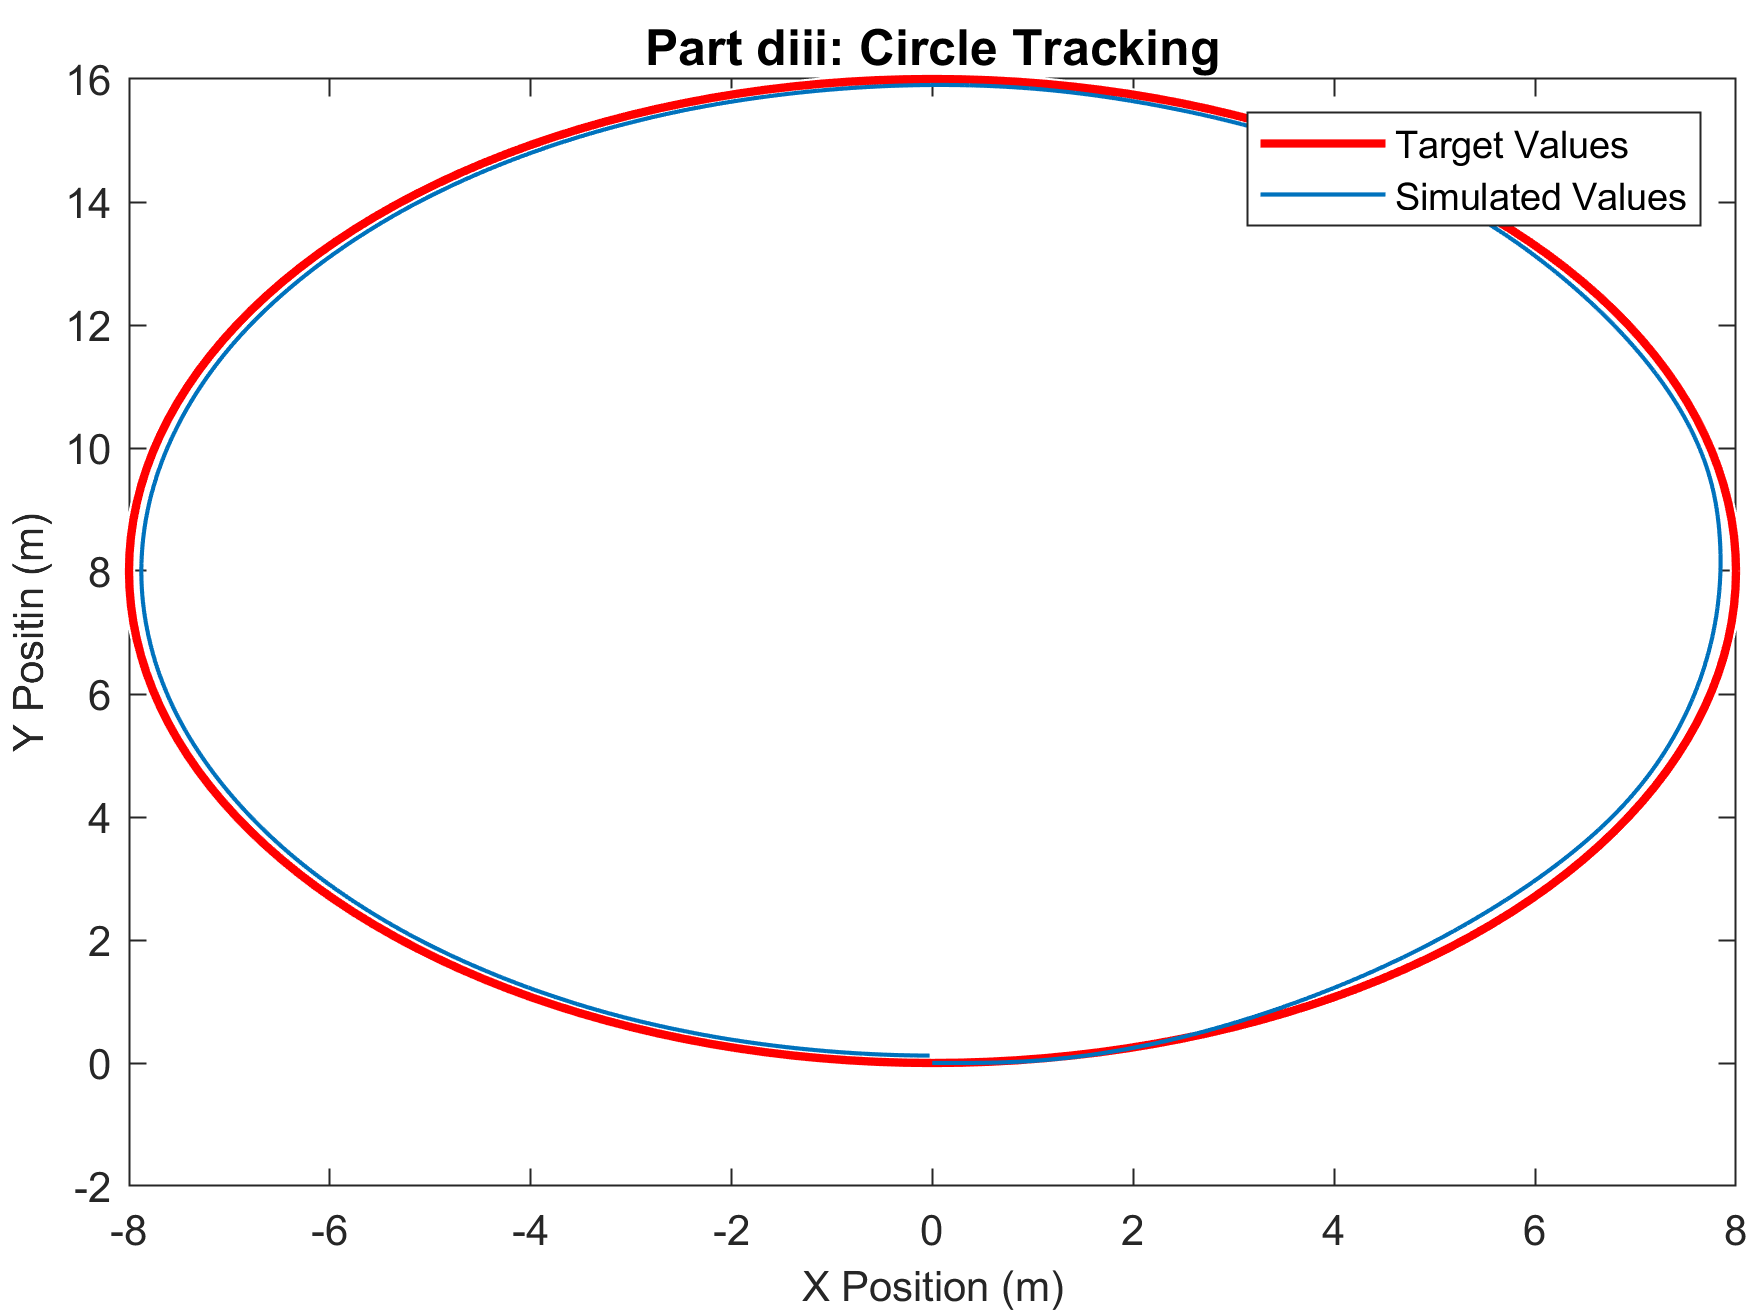
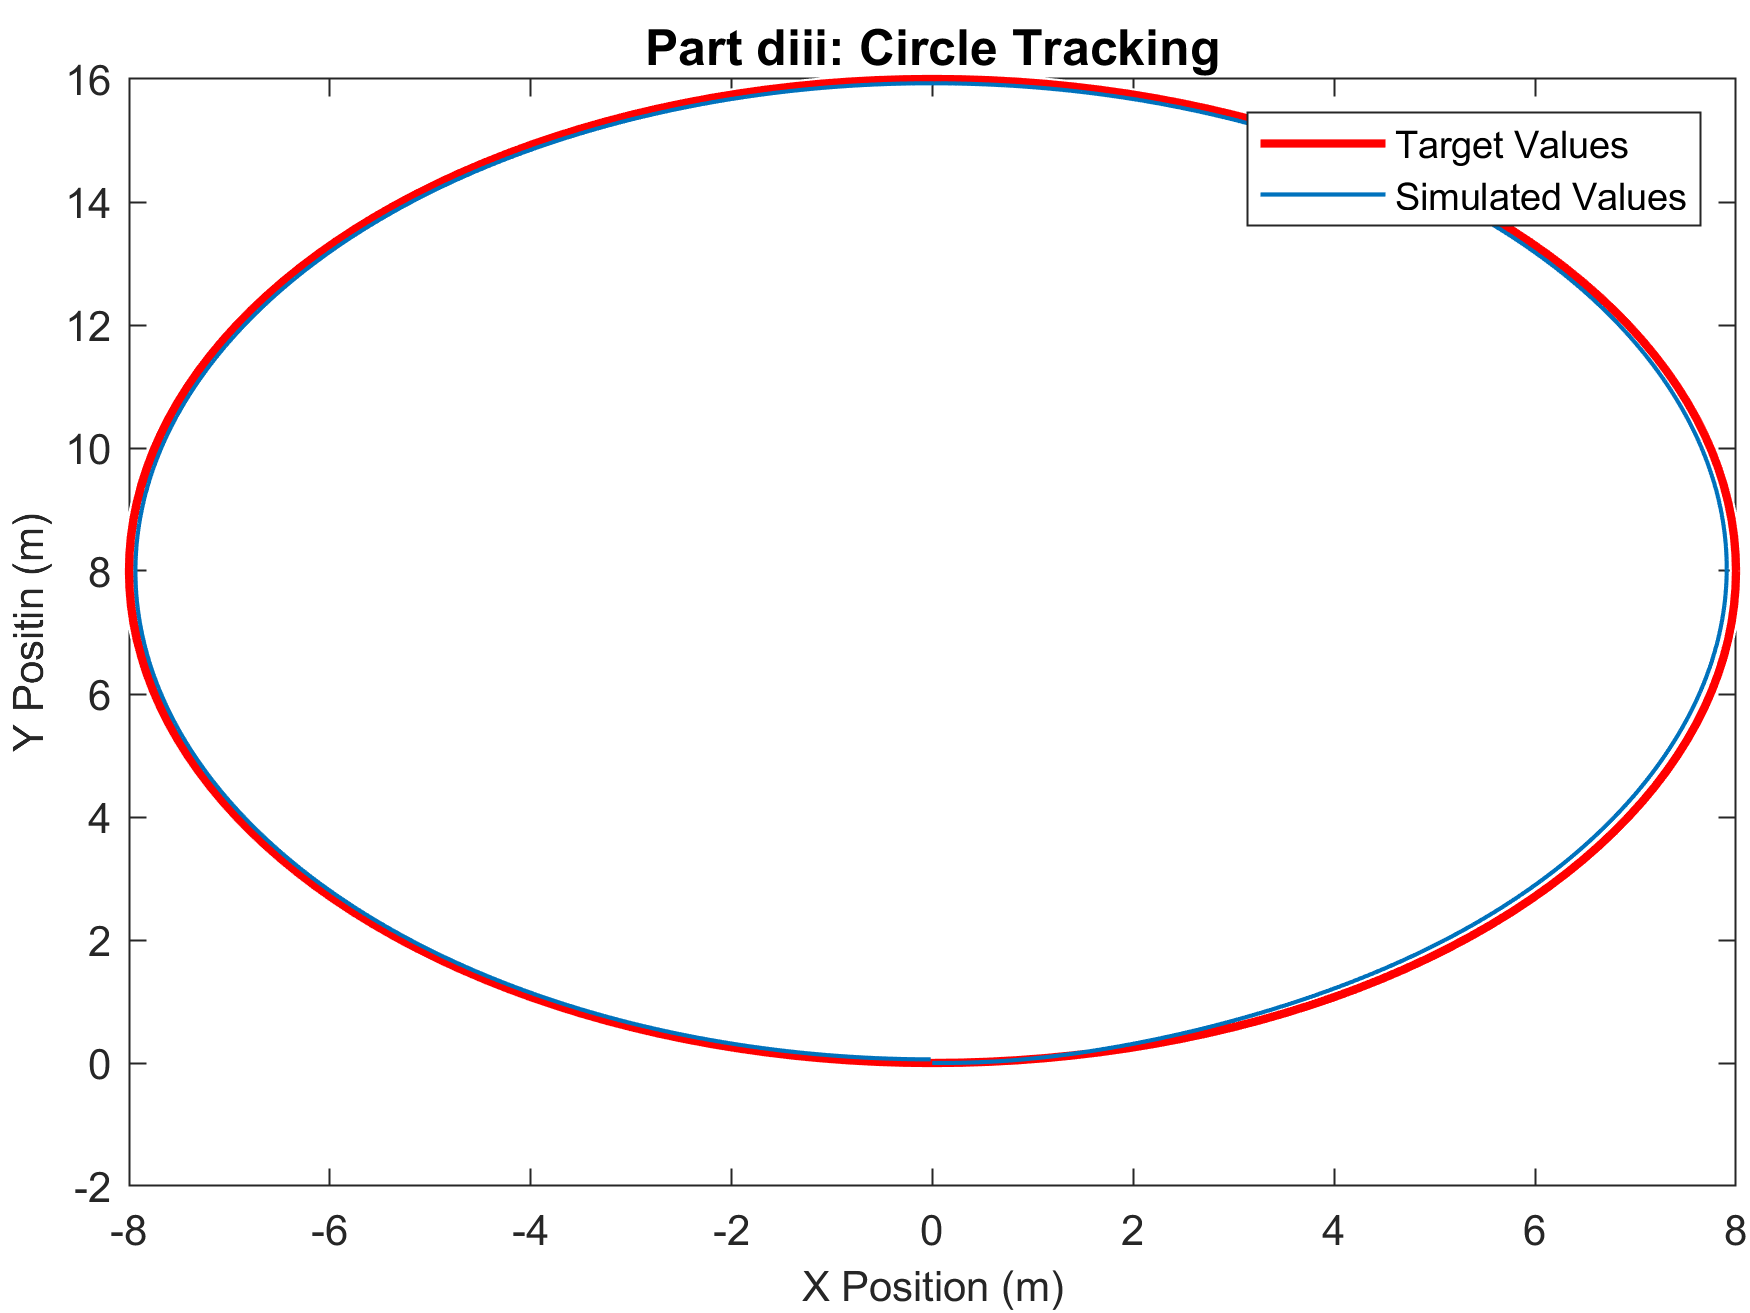
Changed Saturation and fixed switching

diff --git a/blimp_setup.m b/blimp_setup.m
@@ -45,7 +45,7 @@ function simulate_blimp(part_num, closed_loop, controller_on, t_final, opp_mode)
 	switch_freq		= 5;
 
 	% Changes weight of heading error
-	switch_weight	= .5;
+	switch_weight	= 20;
 
 	%% DEFINE THE TRANSFER FUNCTIONS
 	s	= tf('s');
